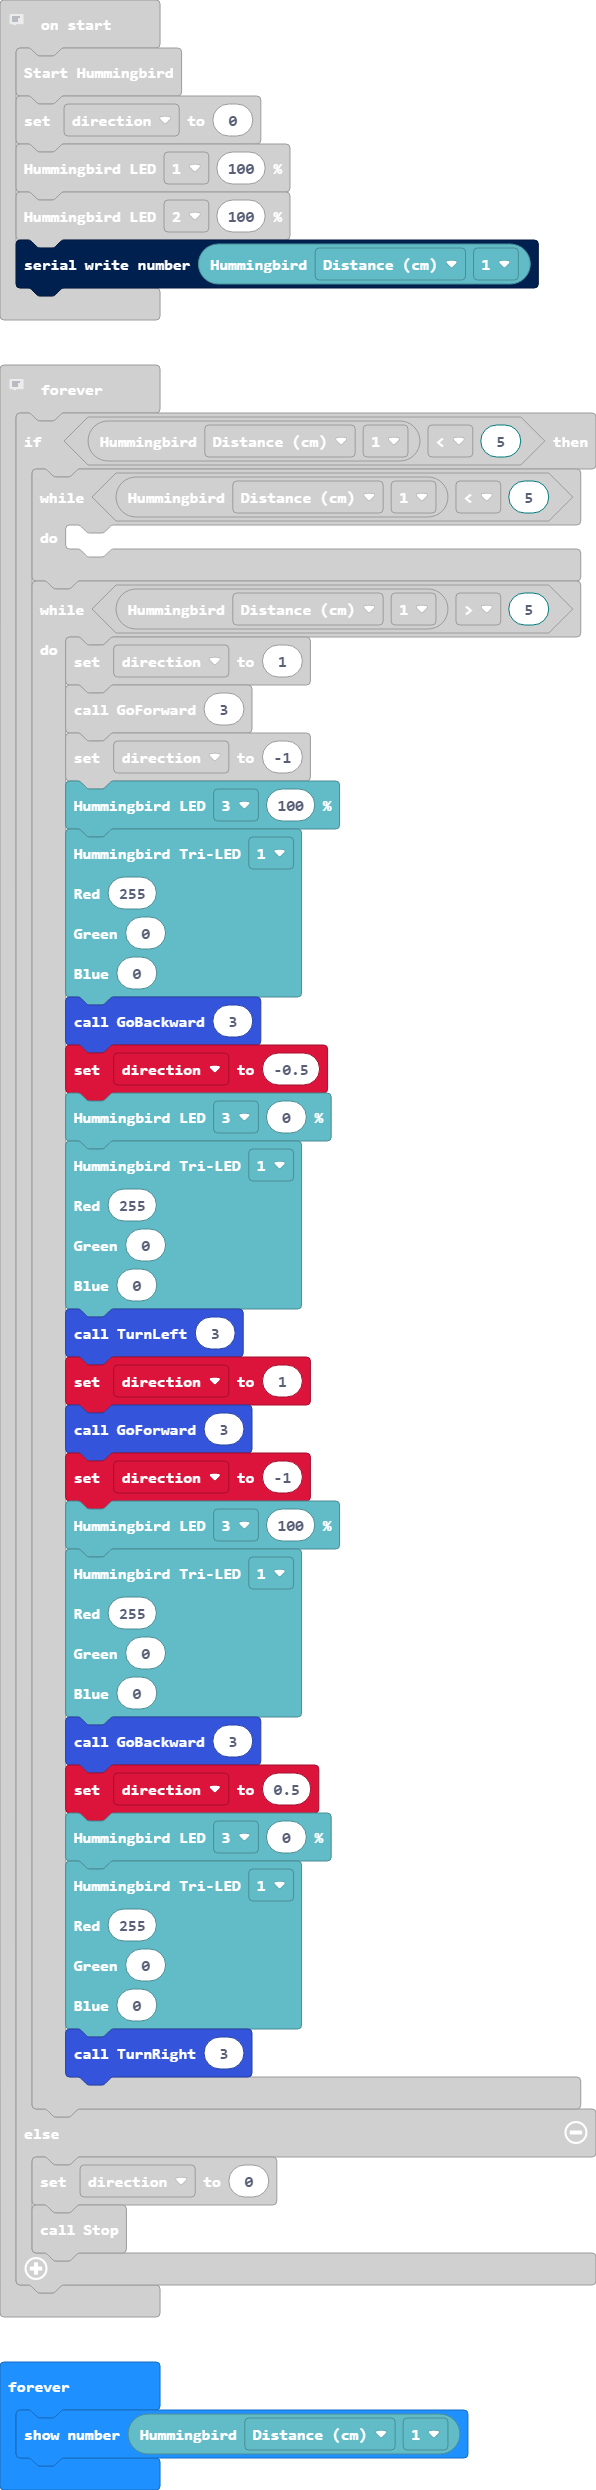
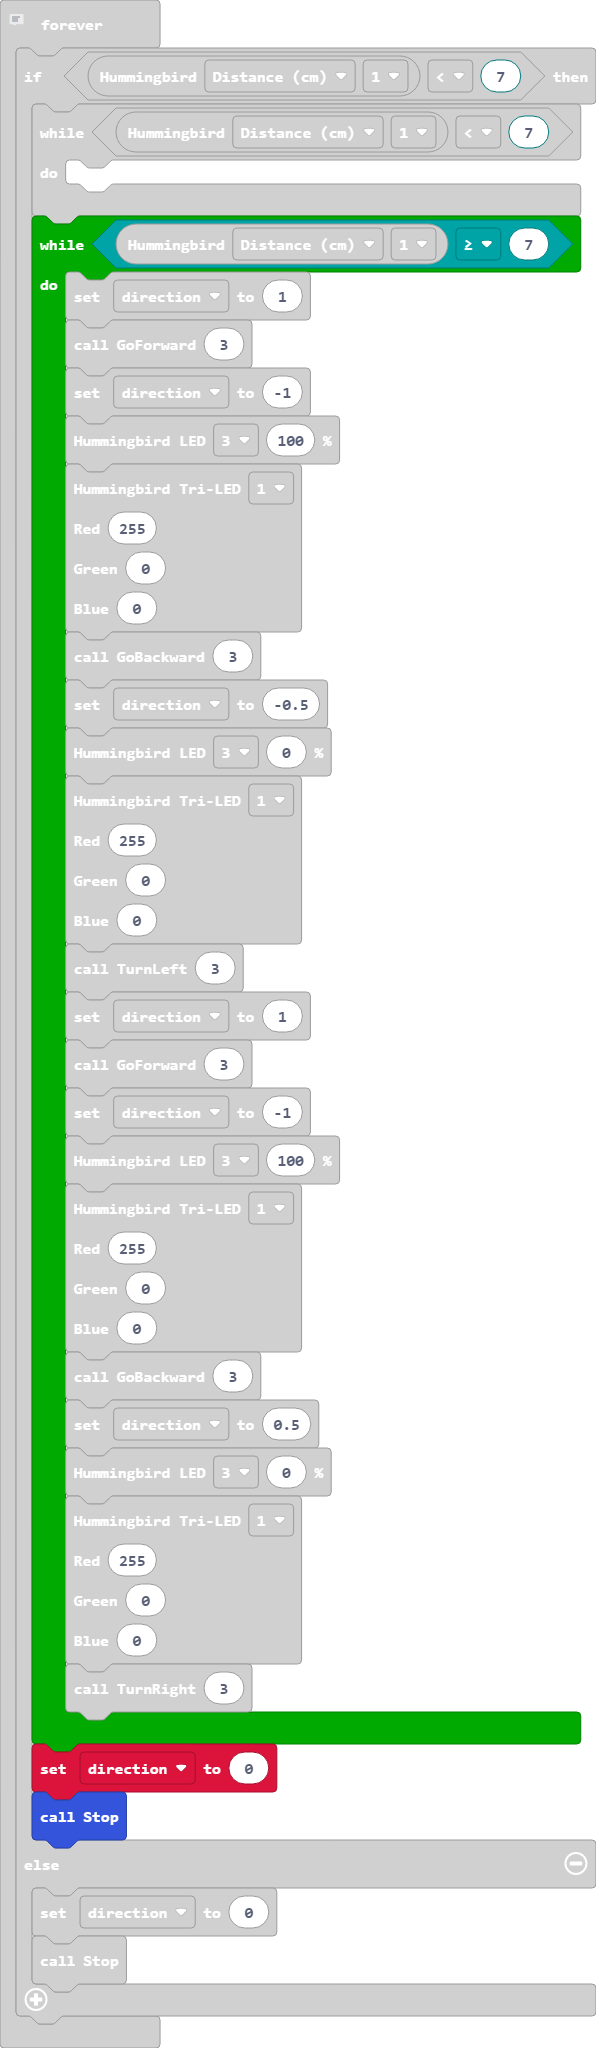
fixed stop

diff --git a/main.ts b/main.ts
@@ -62,11 +62,11 @@ hummingbird.setLED(ThreePort.Two, 100)
 serial.writeNumber(hummingbird.getSensor(SensorType.Distance, ThreePort.One))
 // Move the robot if it senses my hand, and stop moving it when it senses my hand again.
 basic.forever(function () {
-    if (hummingbird.getSensor(SensorType.Distance, ThreePort.One) < 5) {
-        while (hummingbird.getSensor(SensorType.Distance, ThreePort.One) < 5) {
+    if (hummingbird.getSensor(SensorType.Distance, ThreePort.One) < 7) {
+        while (hummingbird.getSensor(SensorType.Distance, ThreePort.One) < 7) {
         	
         }
-        while (hummingbird.getSensor(SensorType.Distance, ThreePort.One) > 5) {
+        while (hummingbird.getSensor(SensorType.Distance, ThreePort.One) >= 7) {
             direction = 1
             GoForward(3)
             direction = -1
@@ -108,6 +108,8 @@ basic.forever(function () {
             )
             TurnRight(3)
         }
+        direction = 0
+        Stop()
     } else {
         direction = 0
         Stop()
